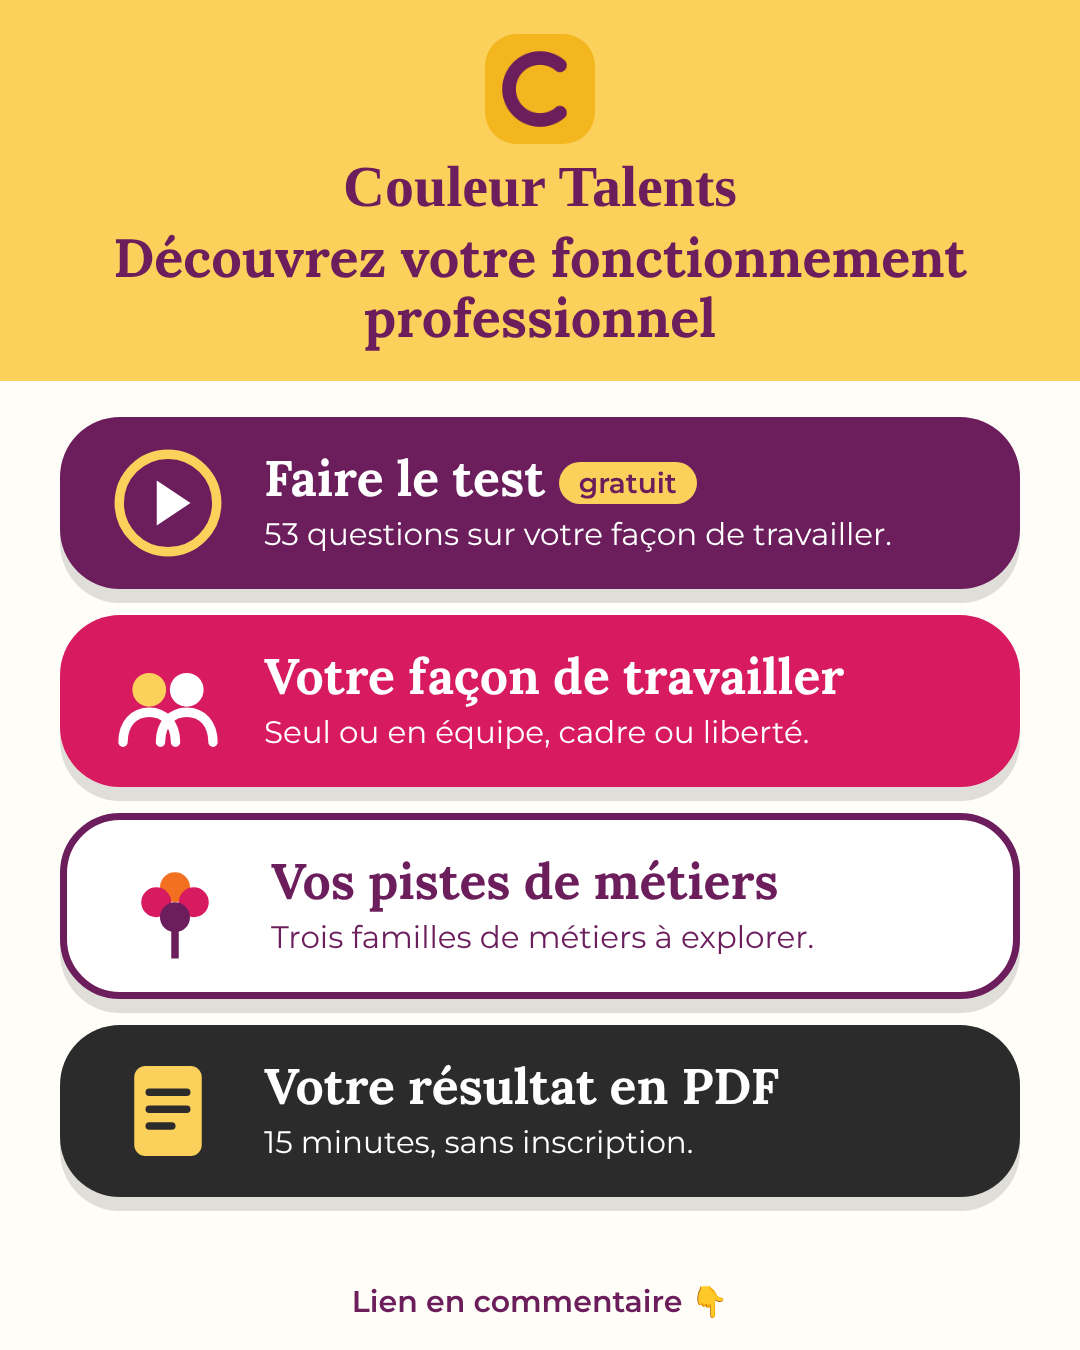
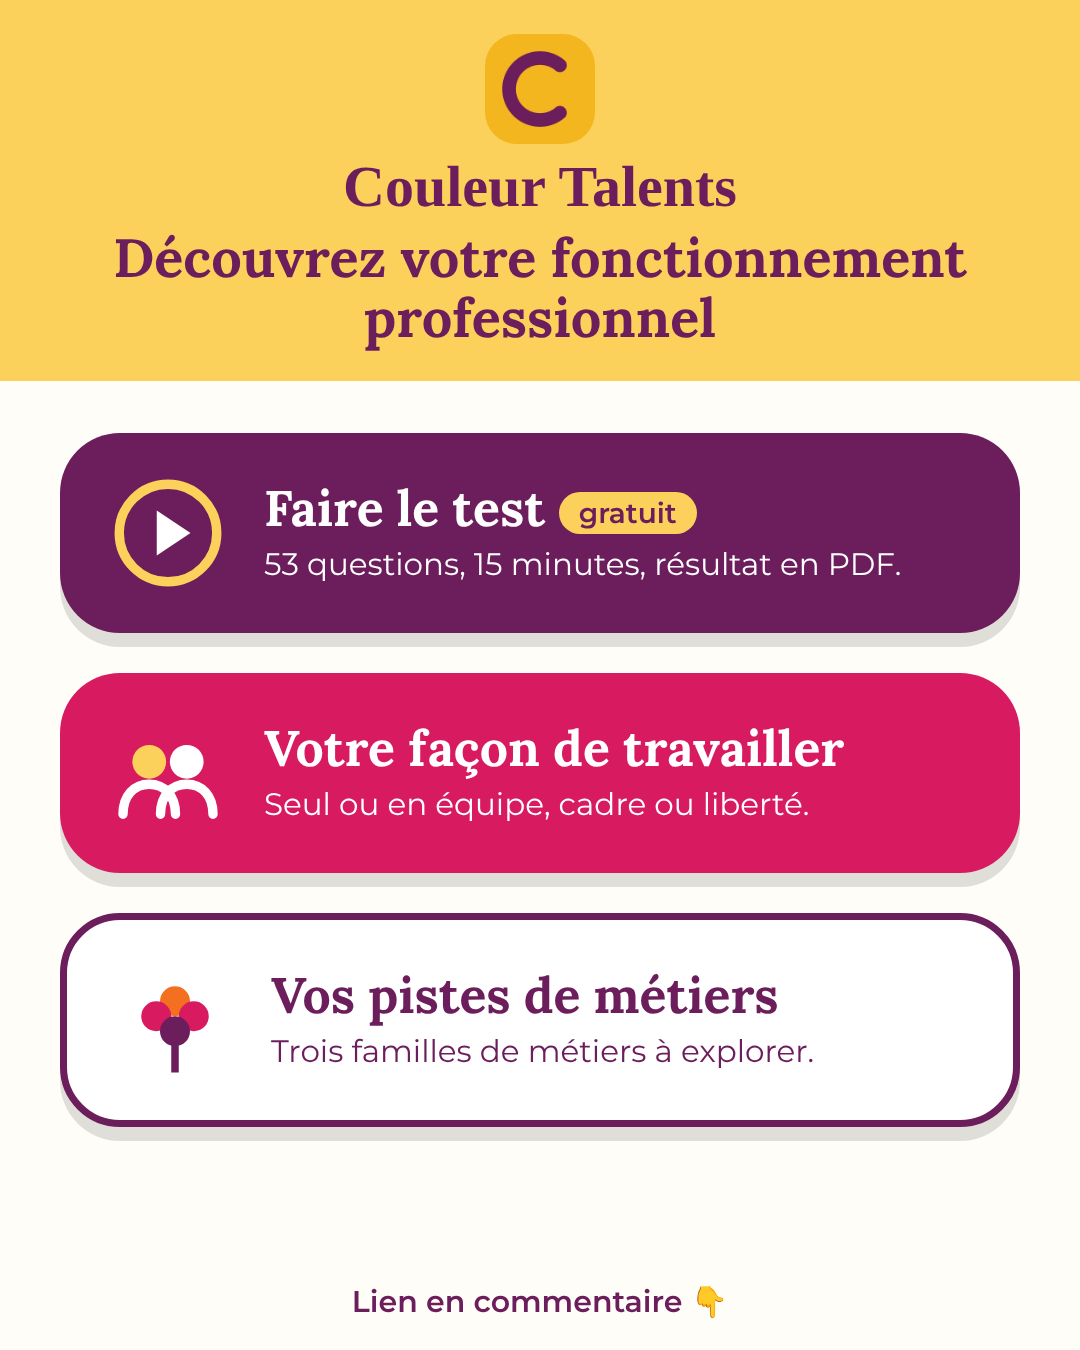
Découvrir : 3 grosses touches ; deux s'ouvrent sur un court texte, une seule mène au test
Claude-Session: https://claude.ai/code/session_01CiTsUJ8RFz2WJzeSsrXTs4

diff --git a/decouvrir/index.html b/decouvrir/index.html
@@ -35,9 +35,12 @@ a.gros:active{transform:translateY(3px);box-shadow:0 3px 0 rgb(0 0 0 / .12)}
 .b1{background:var(--prune)}.b4{background:#2B2B2B}.b2{background:var(--rose)}.b3{background:#fff;color:var(--prune);border:3px solid var(--prune)}
 .badge{display:inline-block;background:var(--safran);color:var(--prune);font-size:13px;font-weight:600;border-radius:999px;padding:2px 10px;margin-left:6px;vertical-align:middle}
 .b4{background:#2B2B2B}
-.apport{background:#F6E6EF;border-radius:22px;padding:18px 20px;font-size:16px}
-.apport h2{font-family:Lora,Georgia,serif;color:var(--prune);font-size:20px;margin:0 0 6px}
-.apport ul{margin:0;padding-left:20px}.apport li{margin:6px 0}.apport b{color:var(--prune)}
+details{display:grid;gap:10px}
+summary{list-style:none;cursor:pointer}summary::-webkit-details-marker{display:none}
+details[open] summary{transform:translateY(3px);box-shadow:0 3px 0 rgb(0 0 0 / .12)}
+.texte{background:#fff;border:2px solid #EADFE6;border-radius:20px;padding:14px 18px;font-size:16px}
+.texte p{margin:0 0 8px}
+.texte a{display:inline-block;margin-top:4px;background:var(--prune);color:#fff;font-weight:600;text-decoration:none;border-radius:14px;padding:10px 16px}
 footer{text-align:center;font-size:14px;color:#6b5f66;padding:0 18px 30px}
 footer a{color:inherit}
 </style>
@@ -52,22 +55,32 @@ footer a{color:inherit}
 <main>
   <a class="gros b1" href="../profil-professionnel/">
     <svg viewBox="0 0 64 64" aria-hidden="true"><circle cx="32" cy="32" r="26" fill="none" stroke="#FCD15B" stroke-width="5"/><path d="M26 20l18 12-18 12z" fill="#fff"/></svg>
-    <div><b>Faire le test <span class="badge">gratuit</span></b><span>53 questions pour comprendre comment vous aimez travailler.</span></div>
+    <div><b>Faire le test <span class="badge">gratuit</span></b><span>53 questions, environ 15 minutes. Résultat en PDF.</span></div>
   </a>
 
-  <div class="apport">
-    <h2>Ce que vous obtenez</h2>
-    <ul>
-      <li><b>Votre façon de travailler</b> : seul ou en équipe, cadre ou liberté, calme ou effervescence.</li>
-      <li><b>Vos pistes de métiers</b> : vos points d'appui et trois familles de métiers à explorer.</li>
-      <li><b>Votre résultat en PDF</b> : environ 15 minutes, sans inscription.</li>
-    </ul>
-  </div>
+  <details>
+    <summary class="gros b2">
+      <svg viewBox="0 0 64 64" aria-hidden="true"><circle cx="22" cy="26" r="9" fill="#FCD15B"/><circle cx="42" cy="26" r="9" fill="#fff"/><path d="M8 54c0-10 6-16 14-16s14 6 14 16M28 54c0-10 6-16 14-16s14 6 14 16" fill="none" stroke="#fff" stroke-width="5" stroke-linecap="round"/></svg>
+      <div><b>Votre façon de travailler</b><span>Seul ou en équipe, cadre ou liberté, calme ou effervescence.</span></div>
+    </summary>
+    <div class="texte">
+      <p>Le questionnaire décrit l'environnement où vous êtes le plus à l'aise : autonomie ou cadre, variété ou stabilité, rythme, place du relationnel et du travail en équipe.</p>
+      <p>Vous le voyez sous la forme d'un graphique en toile d'araignée, avec quelques phrases pour le lire.</p>
+      <a href="../profil-professionnel/">Faire le test →</a>
+    </div>
+  </details>
 
-  <a class="gros b3" href="https://couleur-talents.fr/" target="_blank" rel="noopener">
-    <svg viewBox="0 0 64 64" aria-hidden="true"><circle cx="32" cy="22" r="8" fill="#F37021"/><circle cx="22" cy="30" r="8" fill="#D81B60"/><circle cx="42" cy="30" r="8" fill="#D81B60"/><circle cx="32" cy="38" r="8" fill="#6B1D5C"/><path d="M32 44v16" stroke="#6B1D5C" stroke-width="4"/></svg>
-    <div><b>Découvrir Couleur Talents</b><span>Formations et accompagnements à Saint-Nazaire.</span></div>
-  </a>
+  <details>
+    <summary class="gros b3">
+      <svg viewBox="0 0 64 64" aria-hidden="true"><circle cx="32" cy="22" r="8" fill="#F37021"/><circle cx="22" cy="30" r="8" fill="#D81B60"/><circle cx="42" cy="30" r="8" fill="#D81B60"/><circle cx="32" cy="38" r="8" fill="#6B1D5C"/><path d="M32 44v16" stroke="#6B1D5C" stroke-width="4"/></svg>
+      <div><b>Vos pistes de métiers</b><span>Votre profil, vos points d'appui et trois familles de métiers à explorer.</span></div>
+    </summary>
+    <div class="texte">
+      <p>À partir de vos réponses, le questionnaire propose trois familles de métiers à explorer, et explique pourquoi chacune ressort.</p>
+      <p>Ce sont des pistes pour réfléchir et en parler, avec votre résultat à garder en PDF.</p>
+      <a href="../profil-professionnel/">Faire le test →</a>
+    </div>
+  </details>
 </main>
 
 <footer>Proposé par <a href="https://couleur-talents.fr/" target="_blank" rel="noopener">Couleur Talents</a> · Saint-Nazaire · aucune donnée personnelle demandée</footer>
